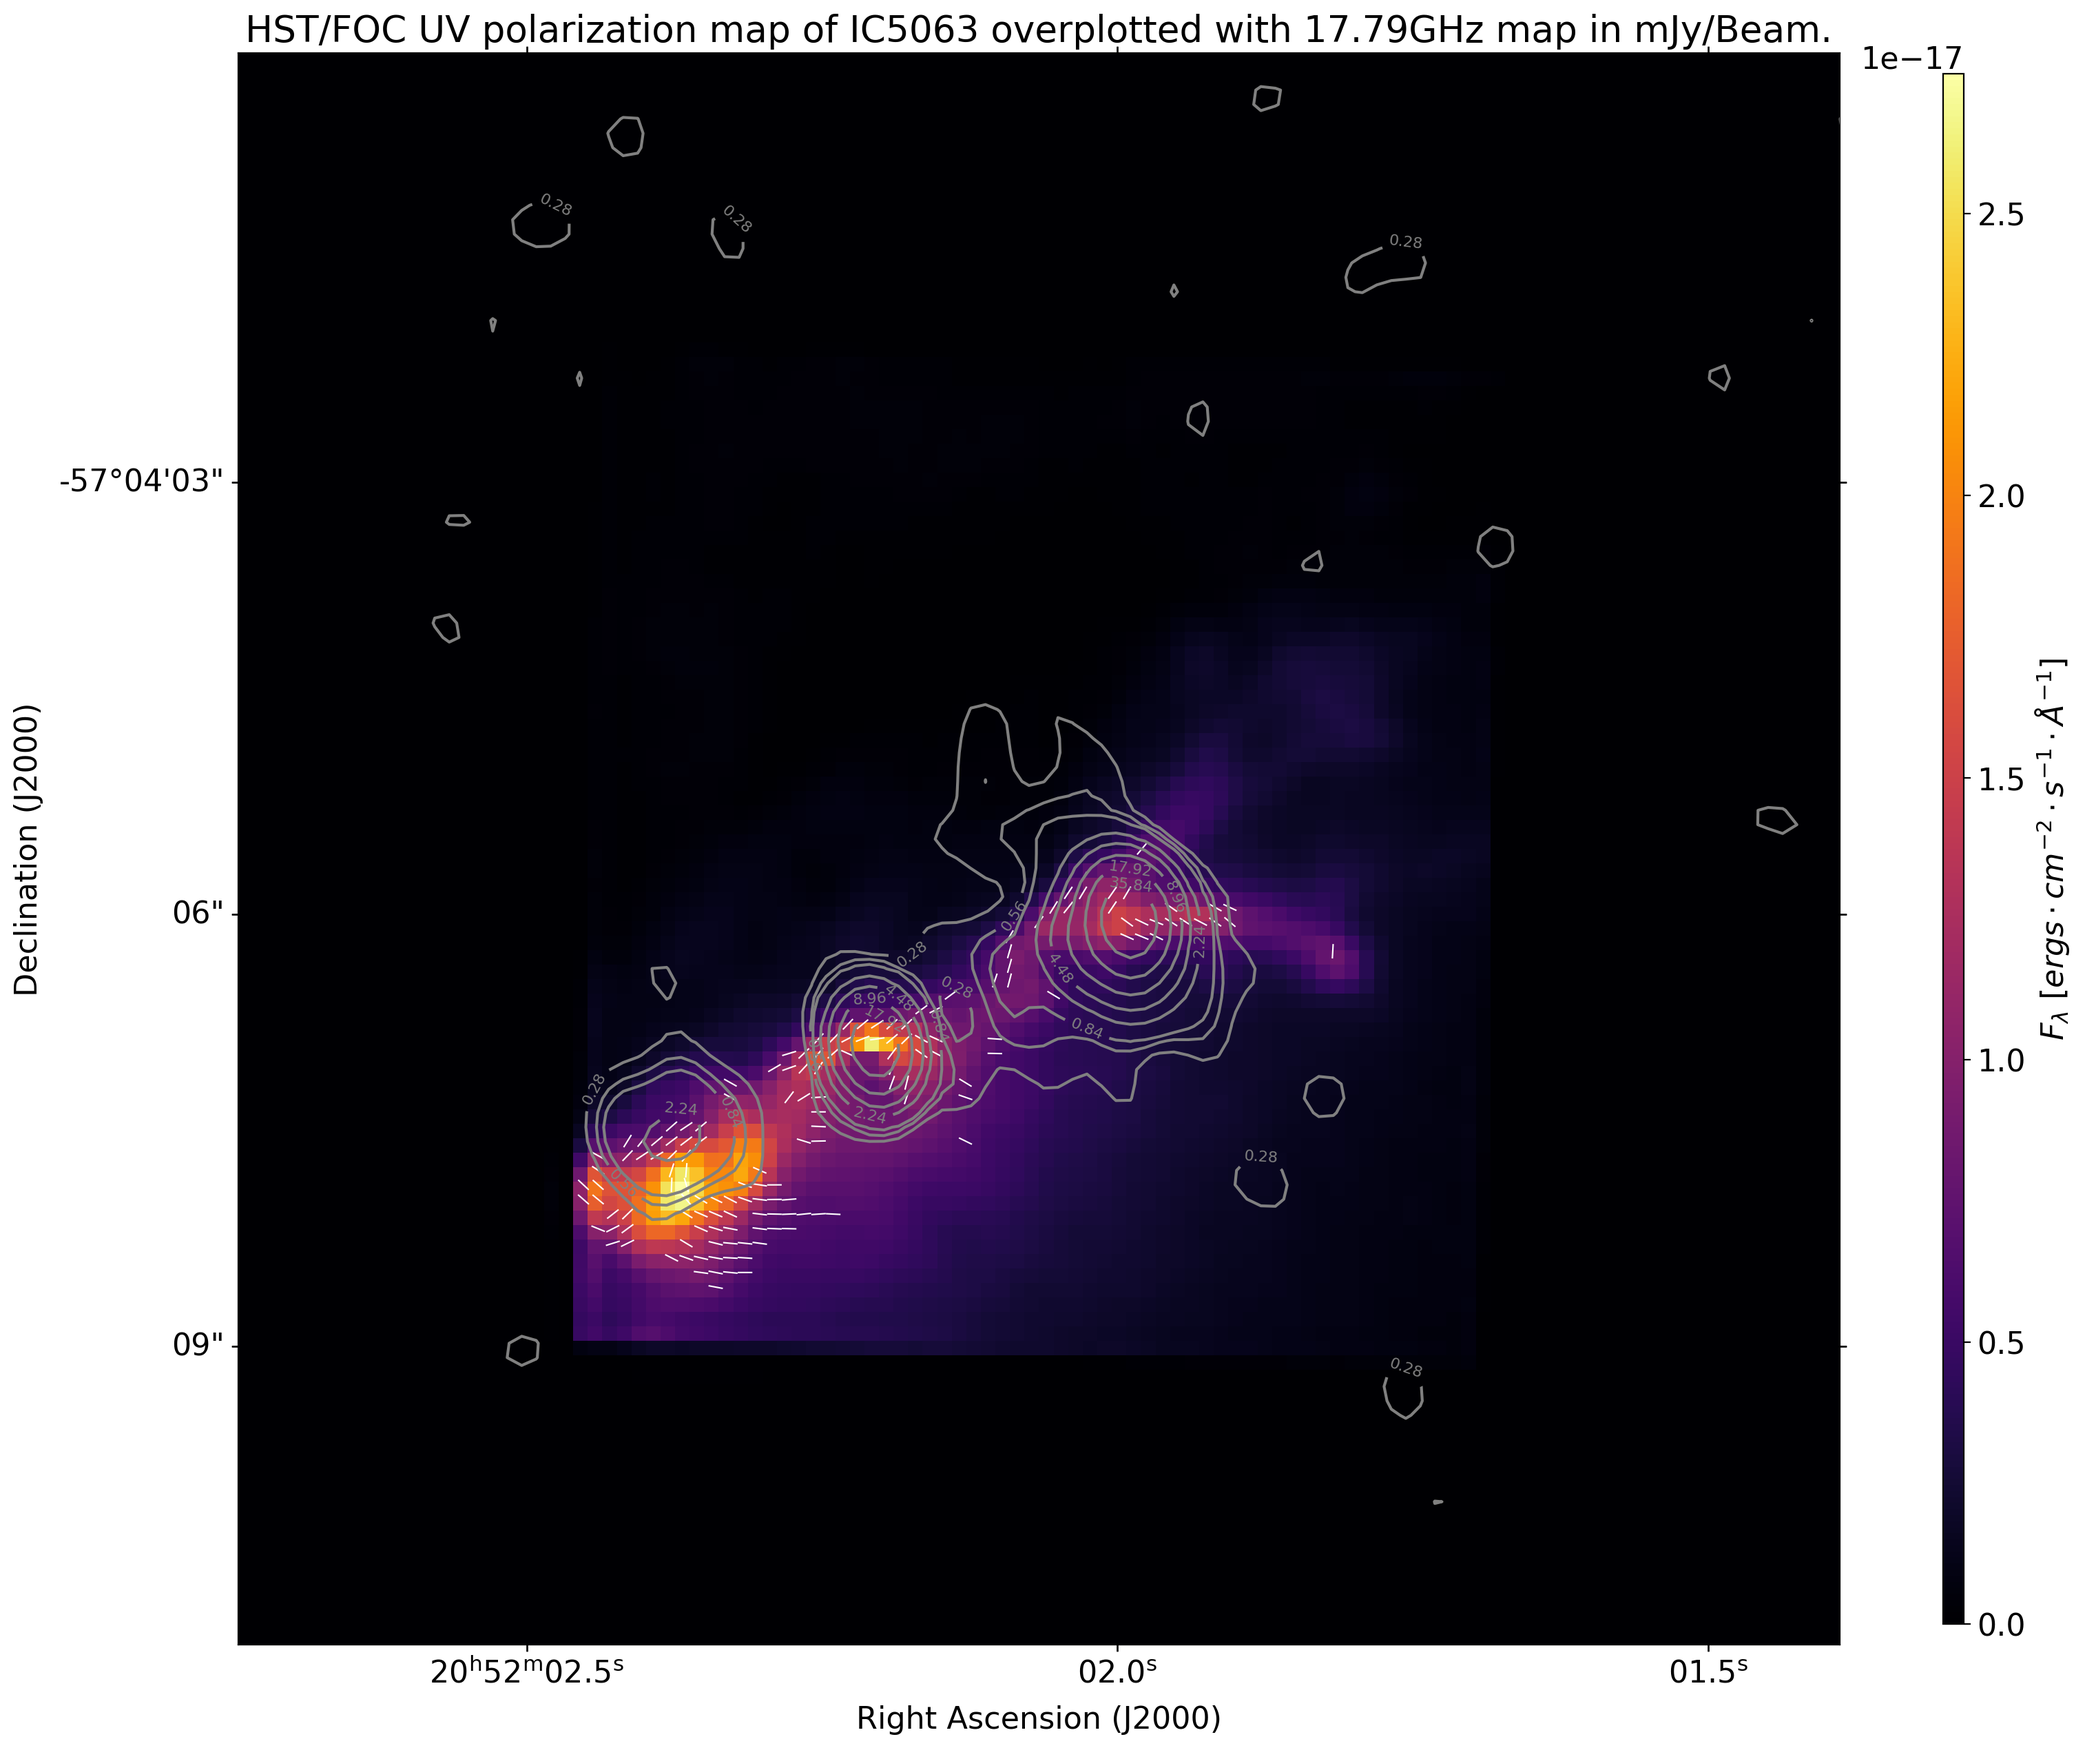
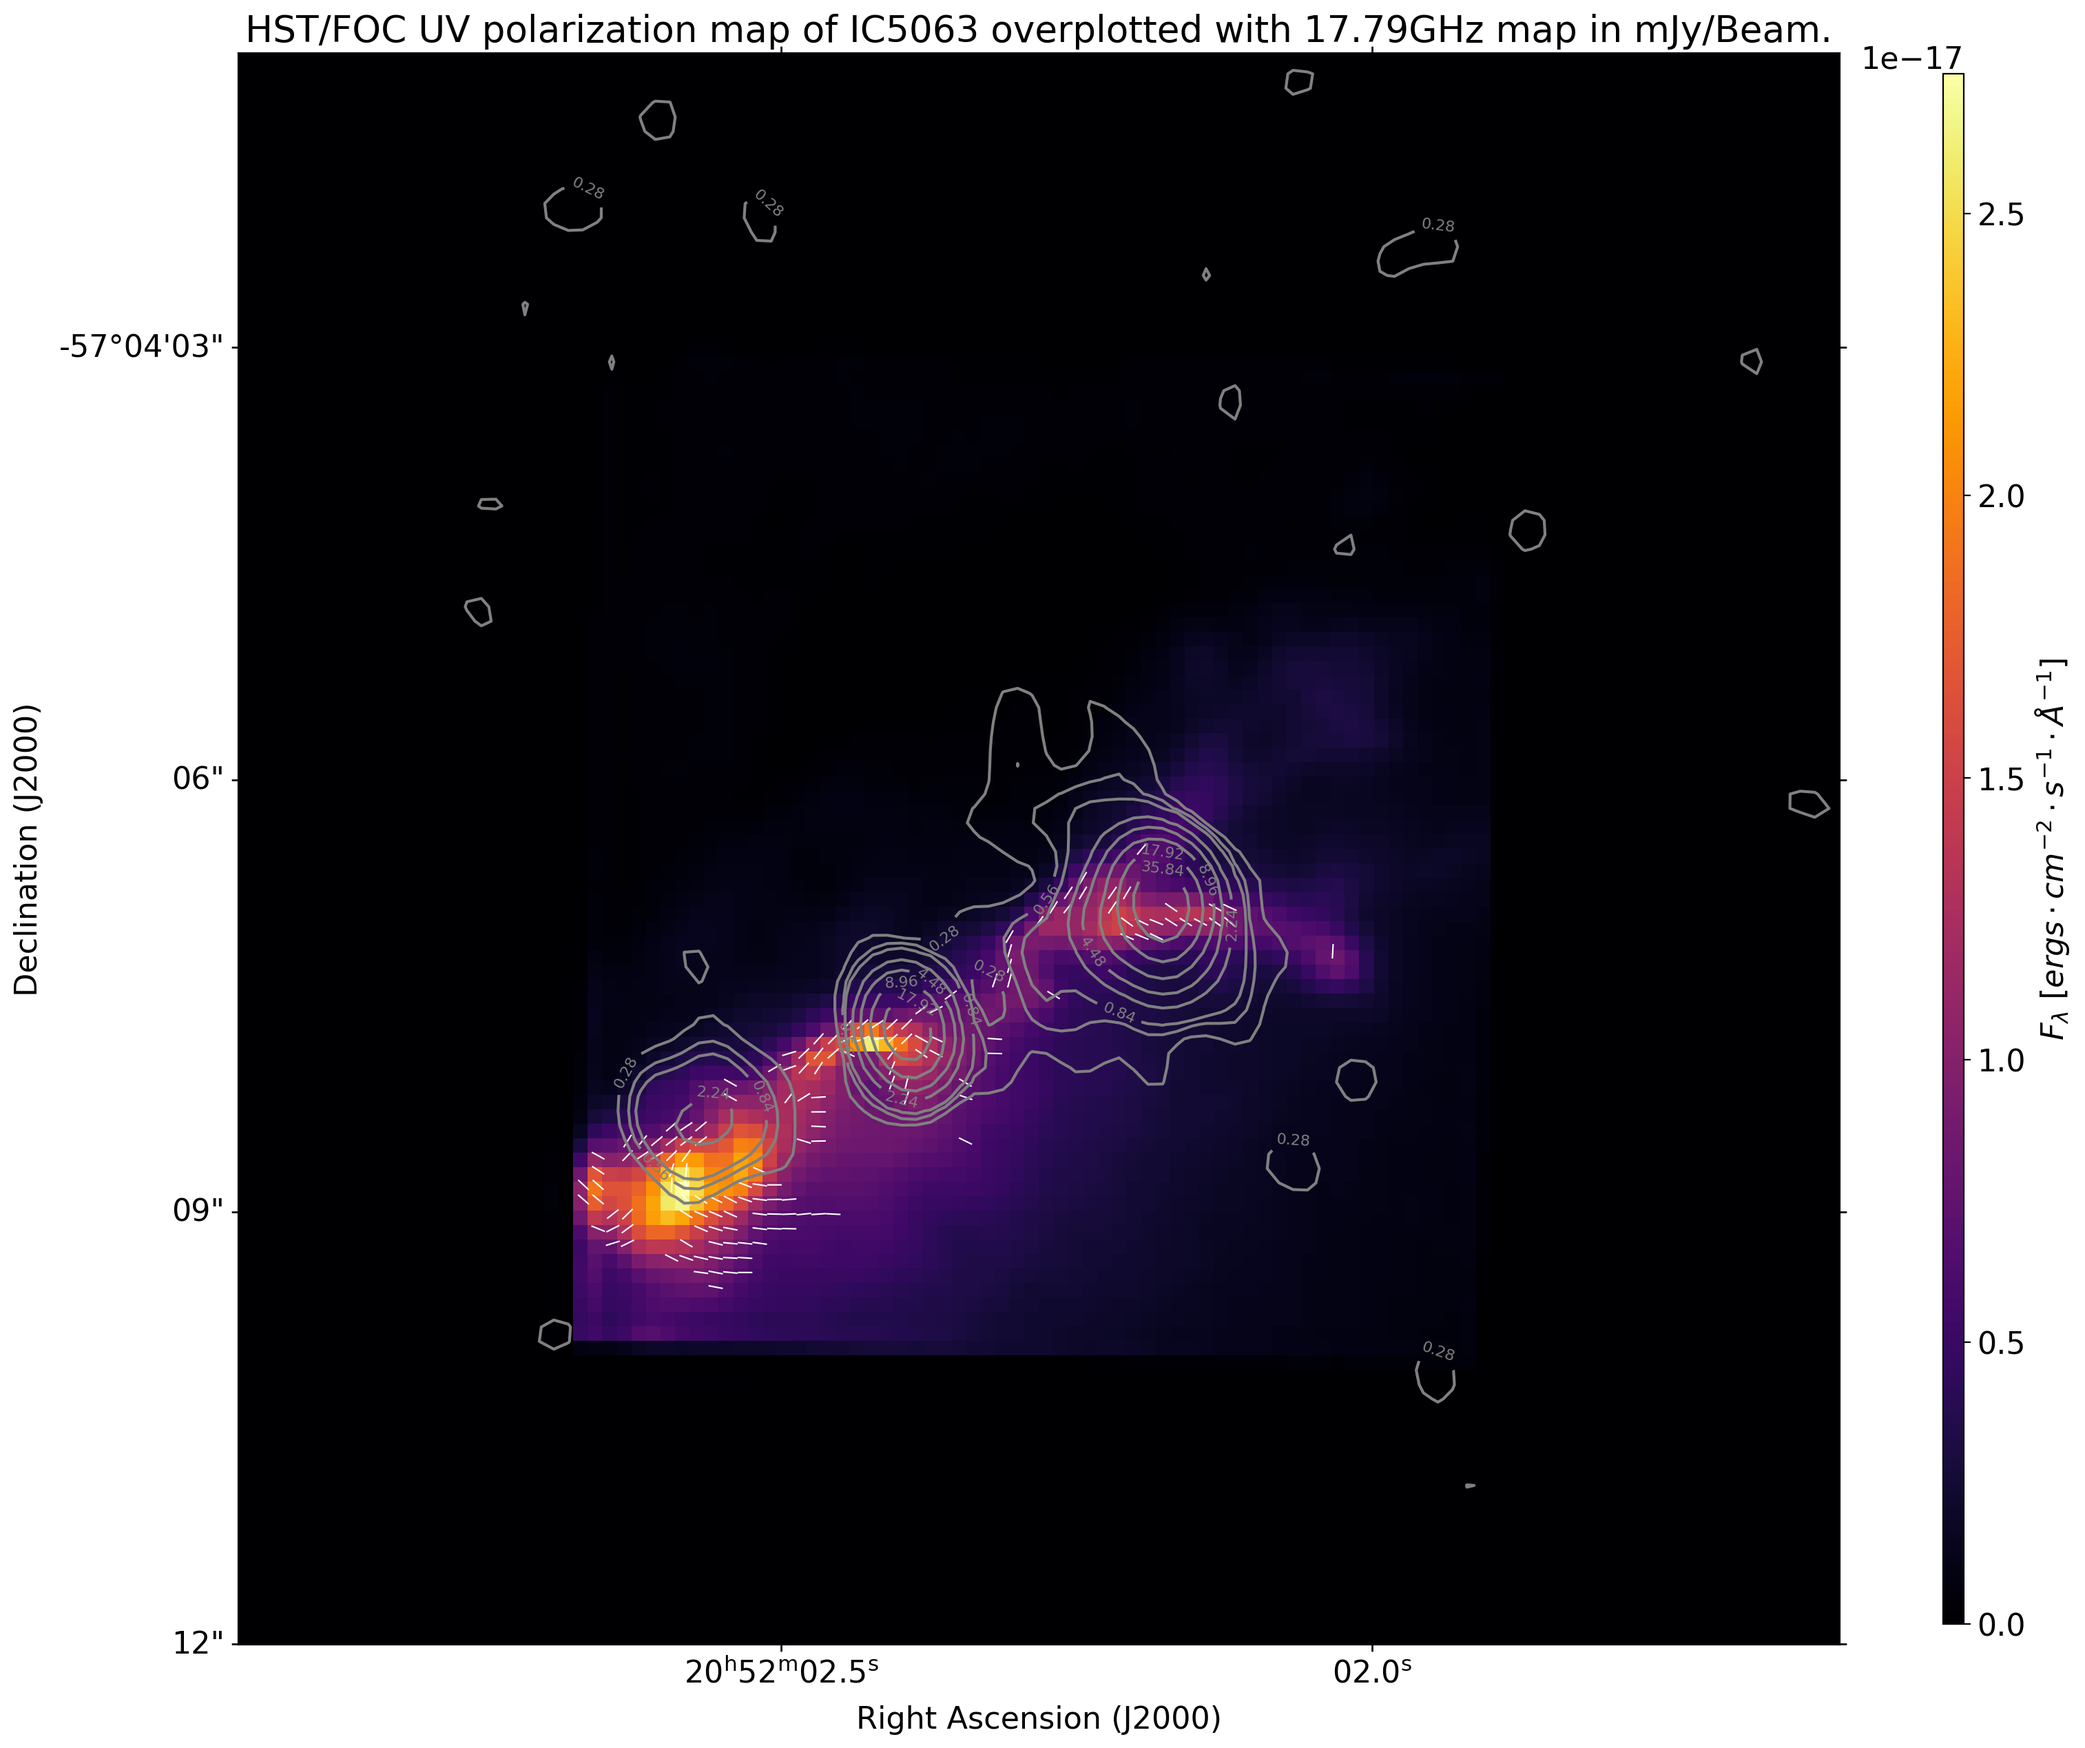
add option to leave WCS unchanged when overplotting

diff --git a/src/lib/plots.py b/src/lib/plots.py
@@ -548,8 +548,10 @@ class align_maps(object):
 
         #Selection button
         self.axapply = self.fig.add_axes([0.80, 0.01, 0.1, 0.04])
-        self.bapply = Button(self.axapply, 'Apply reference.')
-    
+        self.bapply = Button(self.axapply, 'Apply reference')
+        self.axreset = self.fig.add_axes([0.60, 0.01, 0.1, 0.04])
+        self.breset = Button(self.axreset, 'Leave as is')
+     
     def get_aligned_wcs(self):
         return self.wcs_UV, self.wcs_other
 
@@ -569,6 +571,16 @@ class align_maps(object):
                 self.cr_other.set(data=[x,y])
                 self.fig.canvas.draw_idle()
     
+    def reset_align(self, event):
+        self.wcs_UV.wcs.crpix = WCS(self.Stokes_UV[0].header).wcs.crpix[:2]
+        self.wcs_other.wcs.crpix = WCS(self.other_map[0].header).wcs.crpix[:2]
+        self.fig.canvas.draw_idle()
+
+        if self.aligned:
+            plt.close()
+        
+        self.aligned = True
+
     def apply_align(self, event):
         self.wcs_UV.wcs.crpix = np.array(self.cr_UV.get_data())
         self.wcs_other.wcs.crpix = np.array(self.cr_other.get_data())
@@ -576,7 +588,9 @@ class align_maps(object):
         self.fig.canvas.draw_idle()
 
         if self.aligned:
-            plt.close(self.fig)
+            plt.close()
+        
+        self.aligned = True
     
     def on_close_align(self, event):
         self.aligned = True
@@ -586,6 +600,7 @@ class align_maps(object):
         self.fig.canvas.draw()
         self.fig.canvas.mpl_connect('button_press_event', self.onclick_ref)
         self.bapply.on_clicked(self.apply_align)
+        self.breset.on_clicked(self.reset_align)
         self.fig.canvas.mpl_connect('close_event', self.on_close_align)
         plt.show(block=True)
         return self.get_aligned_wcs()
